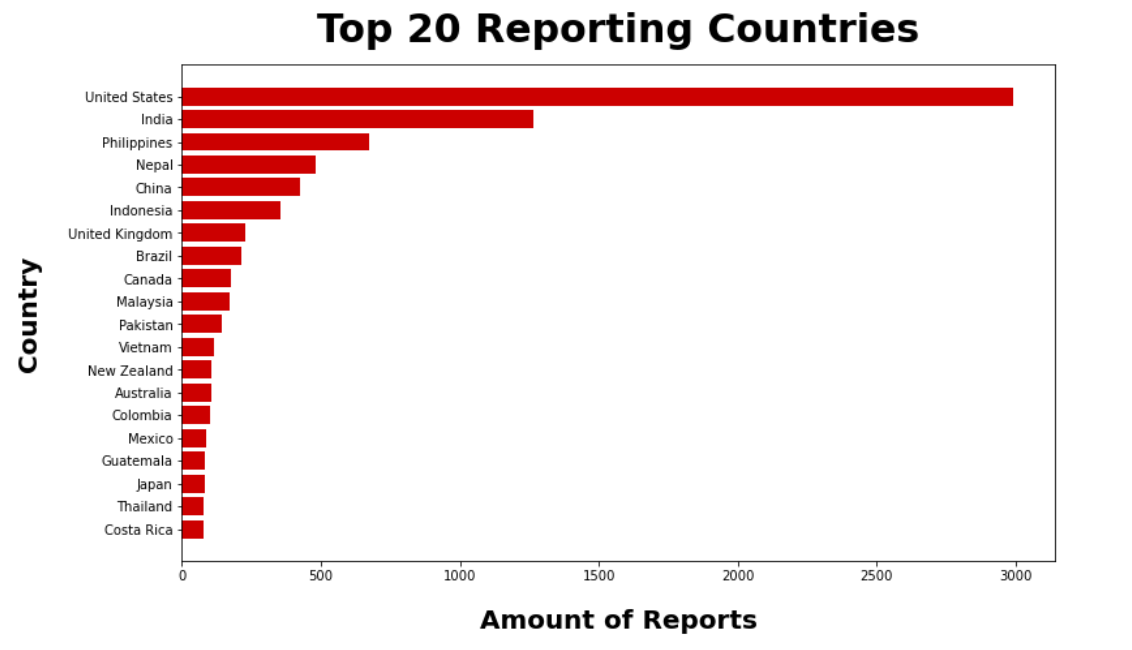
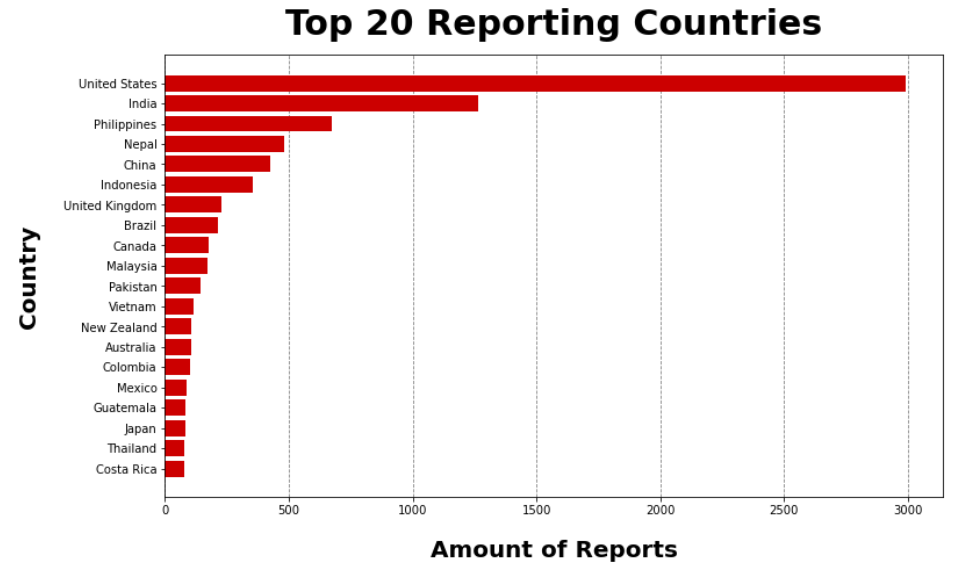
Added dotted lines
Added dotted lines background on the x-axis to the top_x_sources() method for better readability.

Changed region(s): [[0.0605, 0.0, 0.9979, 0.9808], [0.0, 0.3864, 0.0605, 0.5944]]

diff --git a/scripts/Landslide.py b/scripts/Landslide.py
@@ -54,6 +54,9 @@ class Landslide:
         plt.title('Top {} Reporting Countries'.format(x), **self.titleFormat)
         plt.xlabel('Amount of Reports', **self.labelFormatOut)
         plt.ylabel('Country', **self.labelFormatOut)
+        ax = plt.subplot()
+        ax.set_axisbelow(True)
+        ax.xaxis.grid(color='gray',linestyle='dashed')
         plt.show()
         
     # Creates a visualization for the date occurrences of all the landslides
@@ -74,6 +77,6 @@ class Landslide:
                                                                                                                                    
 lab = Landslide('Global_Landslide_Catalog_Export.csv', 'world_image_adjusted.PNG')
 # lab.map_illustrate('all')
-# lab.top_x_sources(20)
-lab.source_dates('2007')
+lab.top_x_sources(20)
+# lab.source_dates('2007')
 
